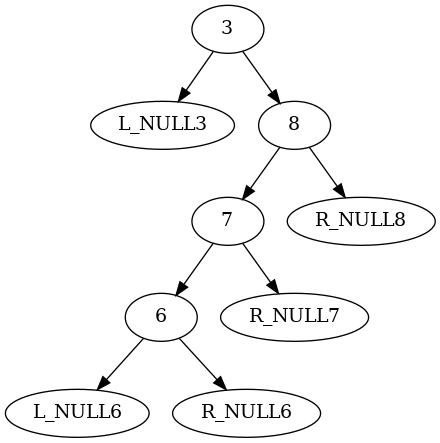
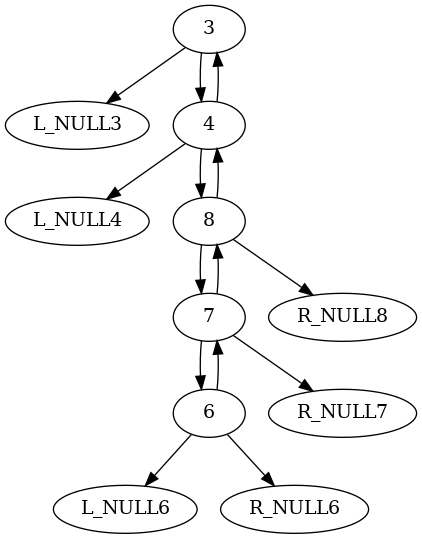
Release 2

diff --git a/splay_tree/include/SplayTree.h b/splay_tree/include/SplayTree.h
@@ -1,17 +1,20 @@
 #pragma once
 #include <iostream>
 #include <fstream>
+#include <vector>
 
-// TODO:
-// PreInsertFunction
 
 #define UNREACHABLE std::cout << __FUNCTION__ << " " << __LINE__ << std::endl;\
                     throw std::runtime_error("Unreachable");
 
 
+static std::ofstream out;
+
+
 // --------------------------------------------------------------------------------------------------------------------
 // Class declarations
 // --------------------------------------------------------------------------------------------------------------------
+
 
 template <typename T> class Node;
 
@@ -26,6 +29,11 @@ class Tree
     std::pair<Node<T>*, Node<T>*> Split(T value);
     static Node<T>* Merge(Node<T>* less, Node<T>* bigger);
     void Delete(T value);
+    ~Tree() {
+        while (root_ != nullptr) {
+            Delete(root_->value_);
+        }
+    };
 };
 
 
@@ -50,25 +58,8 @@ class Node
     Node<T>* FindPreInsert(T value);
     Node<T>* FindMax();
 
-    void GraphVizPrint(std::ofstream& out, const std::string& color = "black") {
-        if (left_node_ != nullptr) {
-            out << value_ << " -> " << left_node_->value_ << " [color = " << color << "]" << std::endl;
-            left_node_->GraphVizPrint(out, color);
-        }
-        else {
-            out << value_ << " -> L_NULL" << value_ << " [color = " << color << "]"  << std::endl;
-        }
-
-        if (right_node_ != nullptr) {
-            out << value_ << " -> " << right_node_->value_  << " [color = " << color << "]" << std::endl;
-            right_node_->GraphVizPrint(out, color);
-        }
-        else {
-            out << value_ << " -> R_NULL" << value_ << " [color = " << color << "]"  << std::endl;
-        }
-    }
+    void GraphVizPrint(std::ofstream& out, const std::string& color = "default");
 };
-
 
 
 // --------------------------------------------------------------------------------------------------------------------
@@ -108,8 +99,6 @@ std::pair<Node<T>*, Node<T>*> Tree<T>::Split(T value)
     Node<T>* pre_insert = root_->FindPreInsert(value);
     root_ = pre_insert->Splay();
 
-    std::cout << "New root: " << root_->value_ << std::endl;
-
     if (root_->value_ >= value) {
         Node<T>* less_tree = root_->left_node_;
         root_->left_node_ = nullptr;
@@ -138,20 +127,15 @@ template <typename T>
 Node<T>* Tree<T>::Merge(Node<T>* less, Node<T>* bigger)
 {
     if (less == nullptr) {
-        std::cout << "Empty less\n";
 
         if (bigger != nullptr) {
-            std::cout << "Bigger " << bigger->value_ << std::endl;
-        }
-        else {
-            std::cout << "Empty bigger\n";
+            bigger->predessor_node_ = nullptr;
         }
 
         return bigger;
     }
 
     Node<T>* max = less->FindMax();
-    std::cout << "Found max " << max->value_ << std::endl;
     Node<T>* new_root = max->Splay();
 
     if (new_root == nullptr) {
@@ -172,9 +156,10 @@ Node<T>* Tree<T>::Merge(Node<T>* less, Node<T>* bigger)
     }
 
     new_root->right_node_ = bigger;
-    bigger->predessor_node_ = new_root;
+    if (bigger != nullptr) {
+        bigger->predessor_node_ = new_root;
+    }
 
-    std::cout << "New root " << new_root->value_ << std::endl;
     return new_root;
 }
 
@@ -192,7 +177,6 @@ Node<T>* Node<T>::Find(T value)
             node = node->left_node_;
         }
         else {
-            std::cout << "Splaing " << node->value_ << std::endl;
             return node->Splay();
         }
     }
@@ -226,10 +210,6 @@ Node<T>* Node<T>::FindPreInsert(T value)
 template <typename T>
 Node<T>* Node<T>::FindMax()
 {
-    if (this == nullptr) {
-        return nullptr;
-    }
-
     Node<T>* node = this;
 
     while (node->right_node_ != nullptr) {
@@ -255,7 +235,12 @@ void Tree<T>::Delete(T value)
         std::runtime_error("Predessor of root is not nullptr");
     }
 
+    Node<T>* old_root = root_;
     root_ = Merge(root_->left_node_, root_->right_node_);
+
+    if (root_ == old_root) {
+        throw std::runtime_error("Element was not deleted");
+    }
 
     delete node;
 }
@@ -386,4 +371,36 @@ Node<T>* Node<T>::RightRotate()
     }
 
     return new_root;
+}
+
+template <typename T>
+void Node<T>::GraphVizPrint(std::ofstream& out, const std::string& color) {
+
+    static std::vector<std::string> colors = {"black", "red", "blue", "yellow", "green"};
+    std::string color_ = color;
+    static int i = 0;
+
+    if (color == "default") {
+        color_ = colors[i++];
+    }
+
+    if (left_node_ != nullptr) {
+        out << value_ << " -> " << left_node_->value_ << " [color = " << color_ << "]" << std::endl;
+        left_node_->GraphVizPrint(out, color_);
+    }
+    else {
+        out << value_ << " -> L_NULL" << value_ << " [color = " << color_ << "]"  << std::endl;
+    }
+
+    if (right_node_ != nullptr) {
+        out << value_ << " -> " << right_node_->value_  << " [color = " << color_ << "]" << std::endl;
+        right_node_->GraphVizPrint(out, color_);
+    }
+    else {
+        out << value_ << " -> R_NULL" << value_ << " [color = " << color_ << "]"  << std::endl;
+    }
+
+    if (predessor_node_ != nullptr) {
+        out << value_ << " -> " << predessor_node_->value_  << " [color = " << color_ << "]" << std::endl;
+    }
 }

diff --git a/splay_tree/src/main.cpp b/splay_tree/src/main.cpp
@@ -2,49 +2,46 @@
 #include <string>
 #include "SplayTree.h"
 
-
-
 int main() {
-    Node<int> a(6);
-    Node<int>* root = &a;
-    Node<int> b(5, &a);
-    Node<int> c(7, &a);
-    Node<int> d(8, &b);
 
-    Tree<int> my_tree;
-    my_tree.Insert(3);
-    my_tree.Insert(7);
-    my_tree.Insert(6);
-    my_tree.Insert(4);
-    my_tree.Insert(8);
-    my_tree.root_ = my_tree.root_->Find(4);
-    // auto t = my_tree.Split(4);
+    Tree<int>* my_tree = new Tree<int>();
+    my_tree->Insert(3);
+    my_tree->Insert(7);
+    my_tree->Insert(6);
+    my_tree->Insert(4);
+    my_tree->Insert(8);
+    my_tree->root_ = my_tree->root_->Find(4);
+    auto t = my_tree->Split(4);
 
-    // root = a.RightRotate();
-    // root = d.Splay();
 
-    std::ofstream out("/home/alex/graph_algorithms/splay_tree/GV.txt");
+    out.open("/home/alex/graph_algorithms/splay_tree/GV.txt");
     if (!out.is_open()) {
         throw std::runtime_error("ERROR! Can't open file\n");
     }
 
     out << "digraph graphname {\n";
 
-    my_tree.Delete(4);
+    // my_tree.Delete(4);
 
     // root->GraphVizPrint(out);
-    // my_tree.root_->GraphVizPrint(out);
+    // my_tree->root_->GraphVizPrint(out);
+    // my_tree->root_->GraphVizPrint(out);
 
     // if (t.first != nullptr)
     //     t.first->GraphVizPrint(out, "red");
     // if (t.second != nullptr)
     //     t.second->GraphVizPrint(out, "red");
 
-    // Node<int>* new_root = Tree<int>::Merge(t.first, t.second);
-    // new_root->GraphVizPrint(out);
-    if (my_tree.root_ != nullptr)
-        my_tree.root_->GraphVizPrint(out);
 
+    Node<int>* new_root = Tree<int>::Merge(t.first, t.second);
+    new_root->GraphVizPrint(out);
+    // if (my_tree.root_ != nullptr)
+    //     my_tree.root_->GraphVizPrint(out);
+    // my_tree->root_->GraphVizPrint(out, "green");
+    delete my_tree;
     out << "}";
     out.close();
+
 } // dot -v -Tpng -o GV.png GV.txt; code GV.png
+
+
